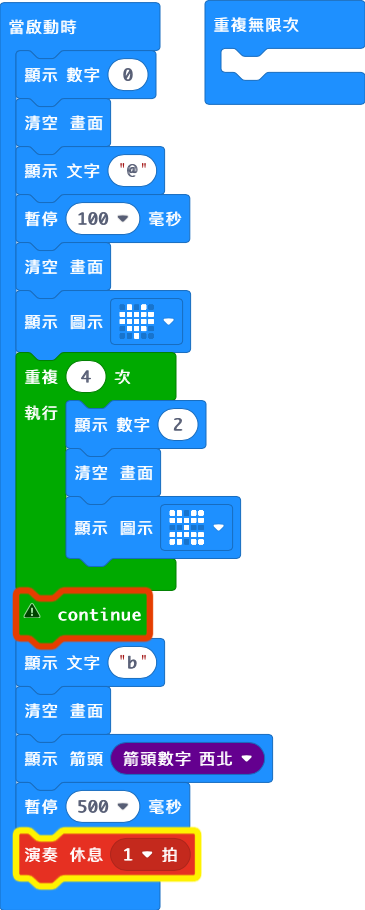
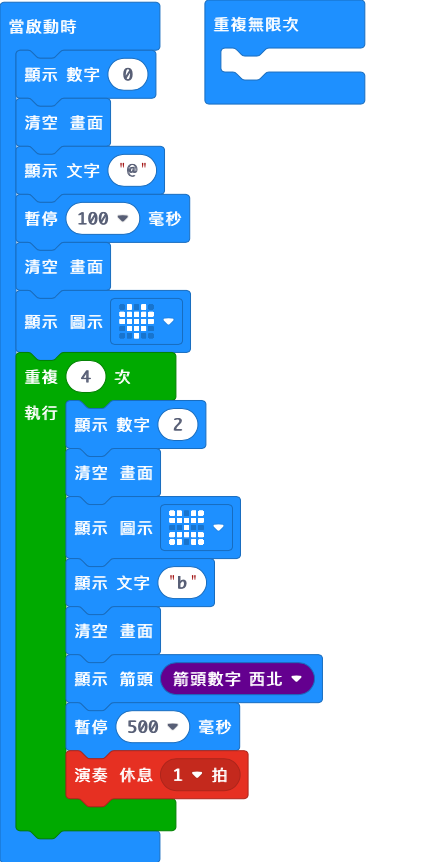
Update main.blocks, main.ts

diff --git a/main.ts b/main.ts
@@ -8,13 +8,12 @@ for (let index = 0; index < 4; index++) {
     basic.showNumber(2)
     basic.clearScreen()
     basic.showIcon(IconNames.Butterfly)
+    basic.showString("b")
+    basic.clearScreen()
+    basic.showArrow(ArrowNames.NorthWest)
+    basic.pause(500)
+    music.rest(music.beat(BeatFraction.Whole))
 }
-continue;
-basic.showString("b")
-basic.clearScreen()
-basic.showArrow(ArrowNames.NorthWest)
-basic.pause(500)
-music.rest(music.beat(BeatFraction.Whole))
 basic.forever(function () {
 	
 })
